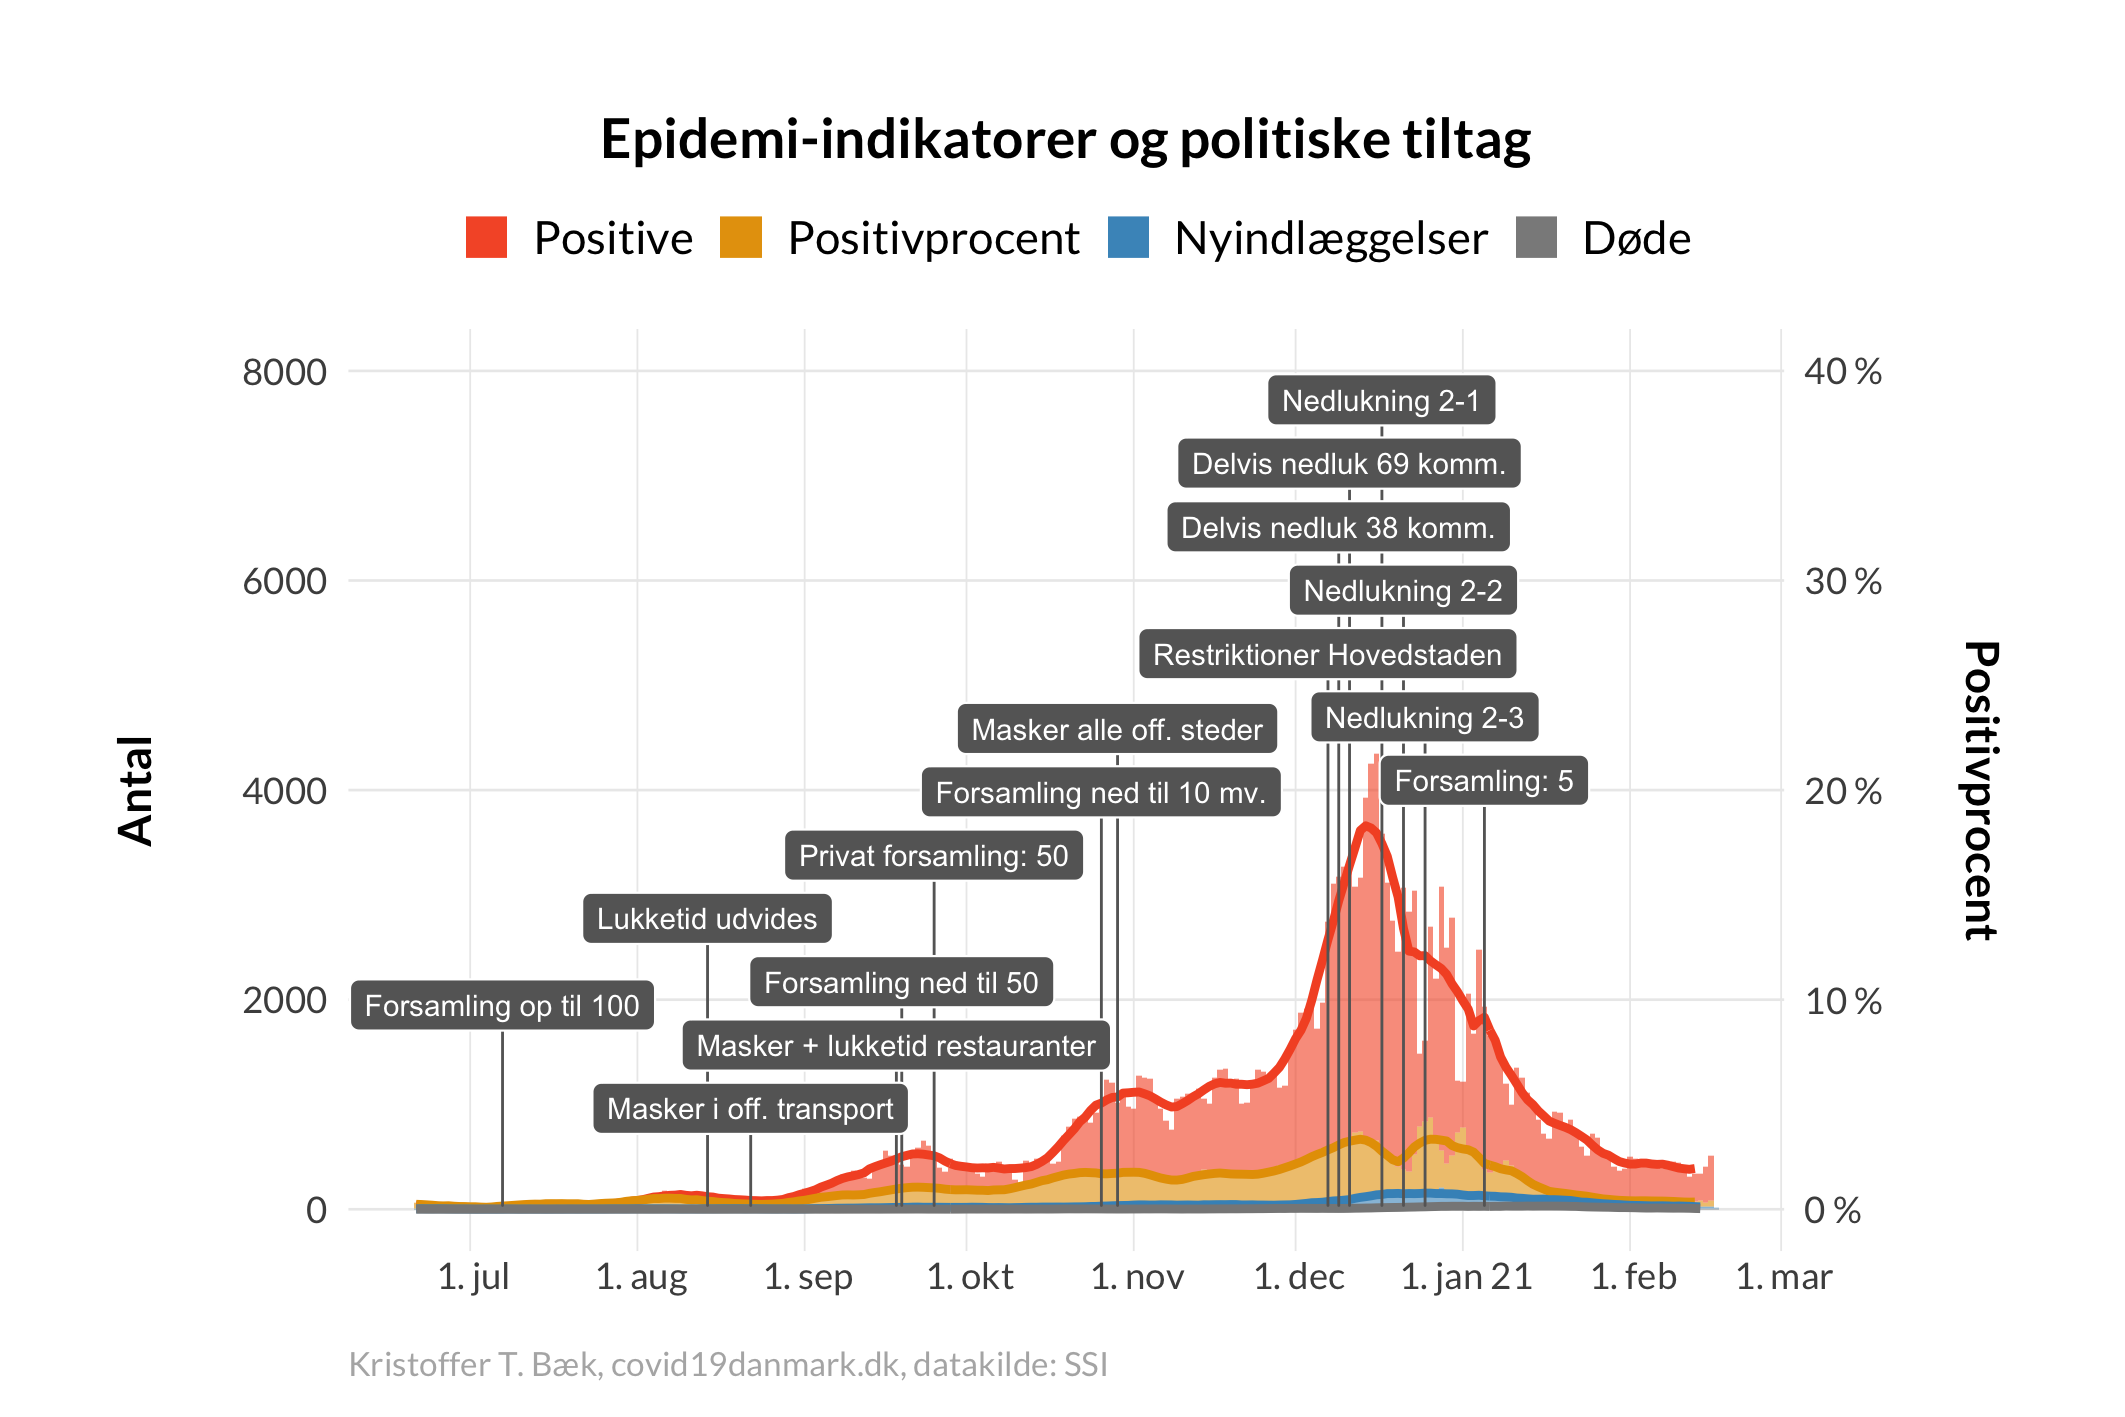
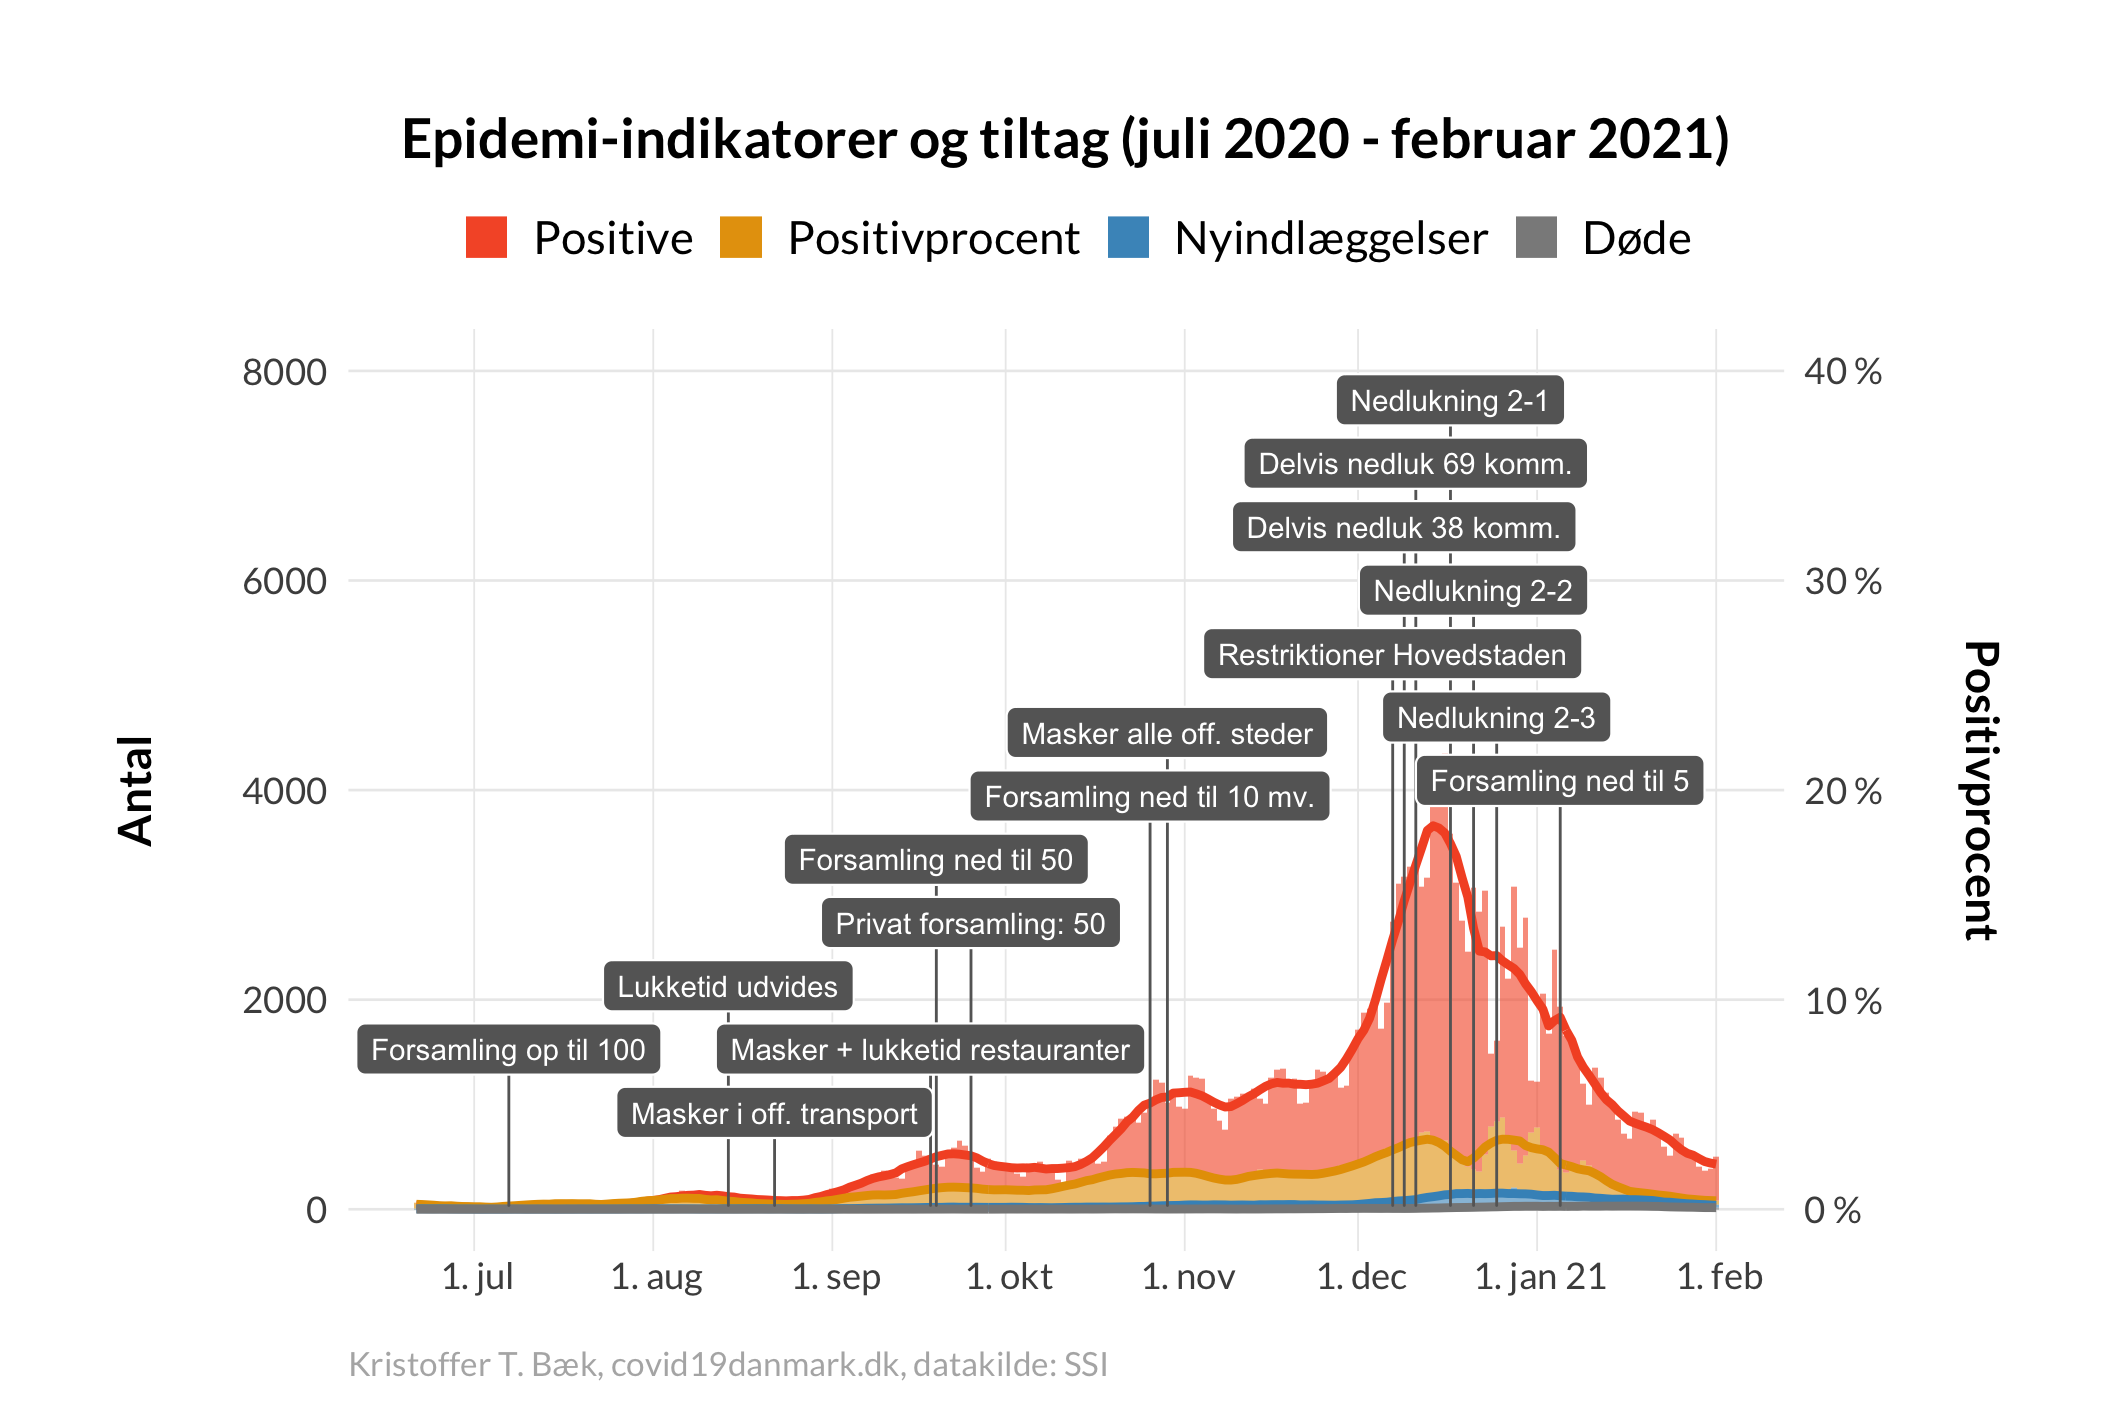
Update plots

diff --git a/index.md b/index.md
@@ -150,13 +150,15 @@ Data for B.1.1.7 er hentet hos [SSI](https://covid19.ssi.dk/virusvarianter) og o
 Se [liste](/tiltag.md) over tiltag.
 
 ### Daglige epidemi-indikatorer og tiltag
-Plottene viser forløbene af de forskellige epidemi-indikatorer samt tidspunkterne for politiske tiltag. De optrukne linjer viser de løbende gennemsnit baseret på et vindue på 7 dage. Det øverste plot viser perioden fra 1. april til 1. august, det nederste plot viser perioden fra 1. juli til nu.
+Plottene viser forløbene af de forskellige epidemi-indikatorer samt tidspunkterne for politiske tiltag. De optrukne linjer viser de løbende gennemsnit baseret på et vindue på 7 dage. Det øverste plot viser perioden fra 1. april 2020 til 1. august, det midterste plot viser perioden fra 1. juli til 1. februar 2021, og det nederste plot viser perioden fra 1. januar til nu.
 
 ``SSI datasæt: 'Test_pos_over_time', 'Newly_admitted_over_time', 'Deaths_over_time'``
 
 ![](/figures/ntl_tiltag_april.png)
 
 ![](/figures/ntl_tiltag_july.png)
+
+![](/figures/ntl_tiltag_januar.png)
 
 [Tilbage til toppen](#)
 
